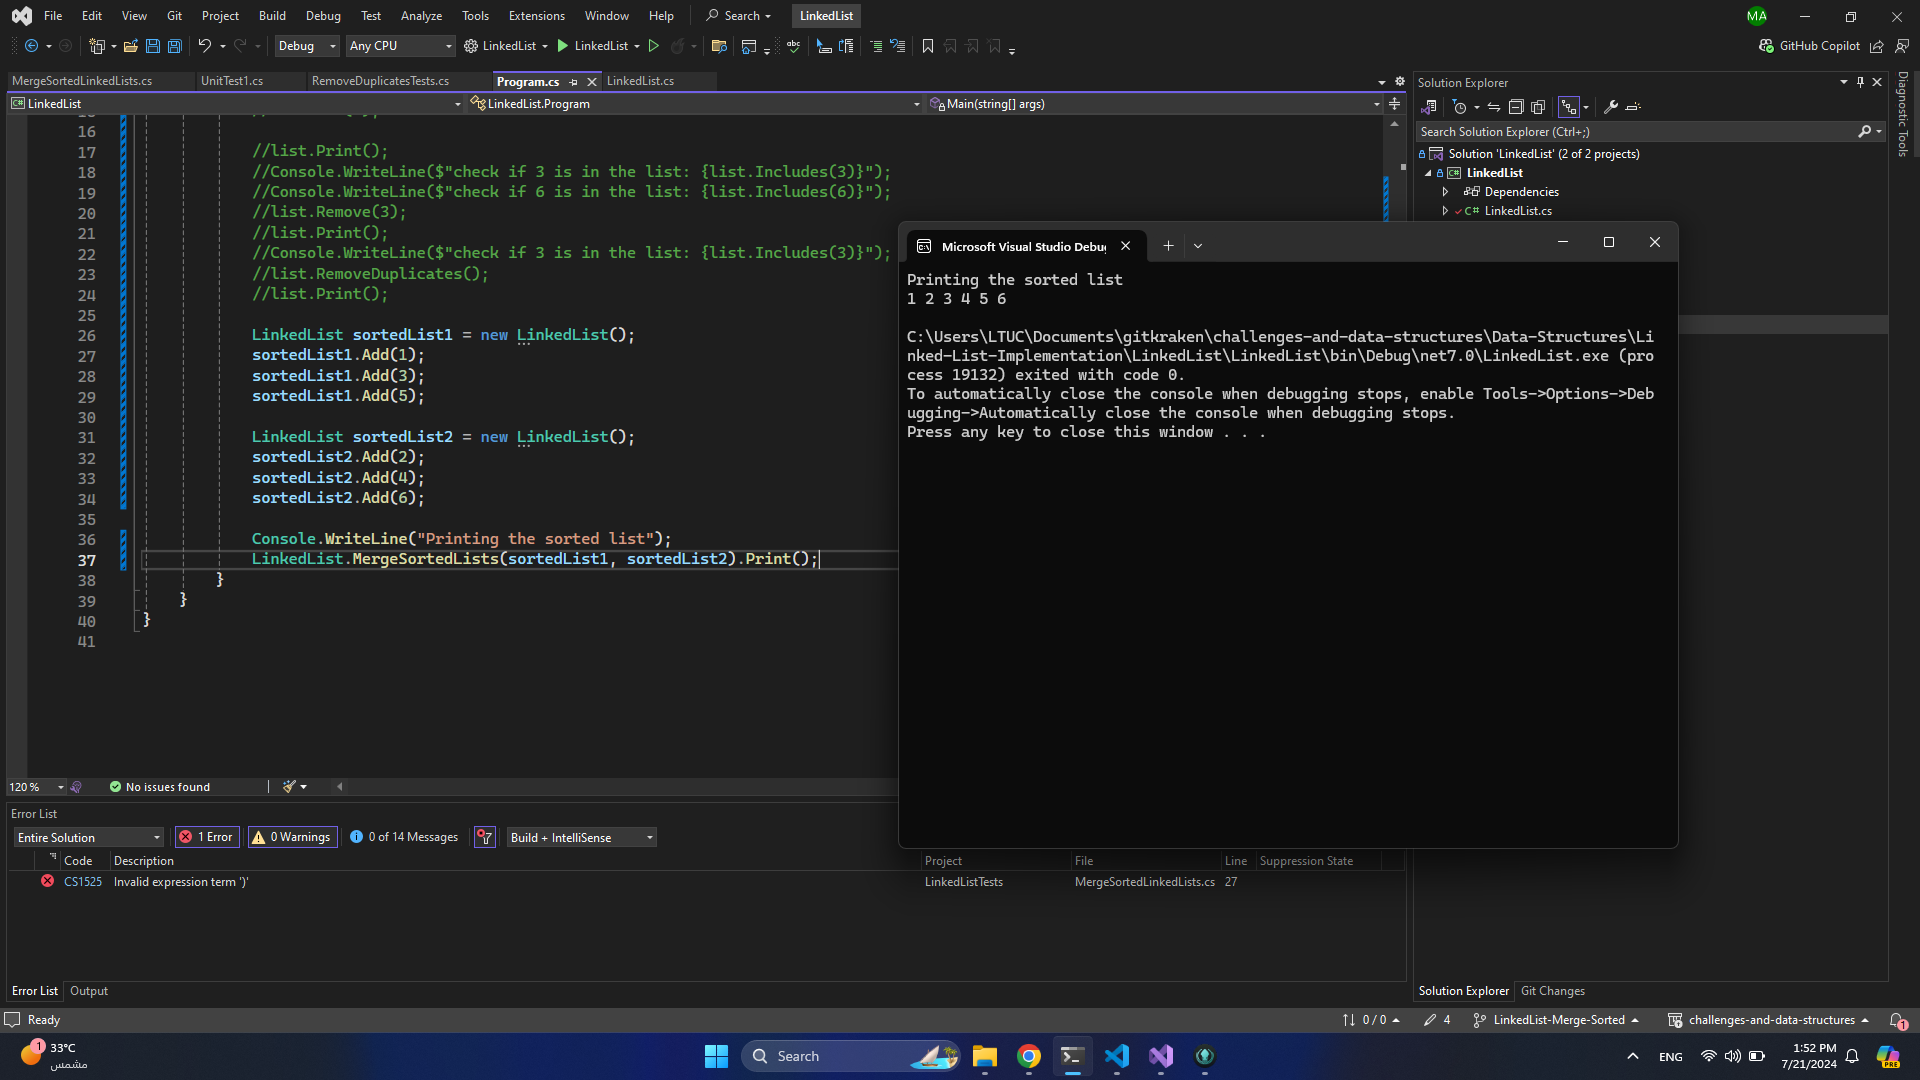
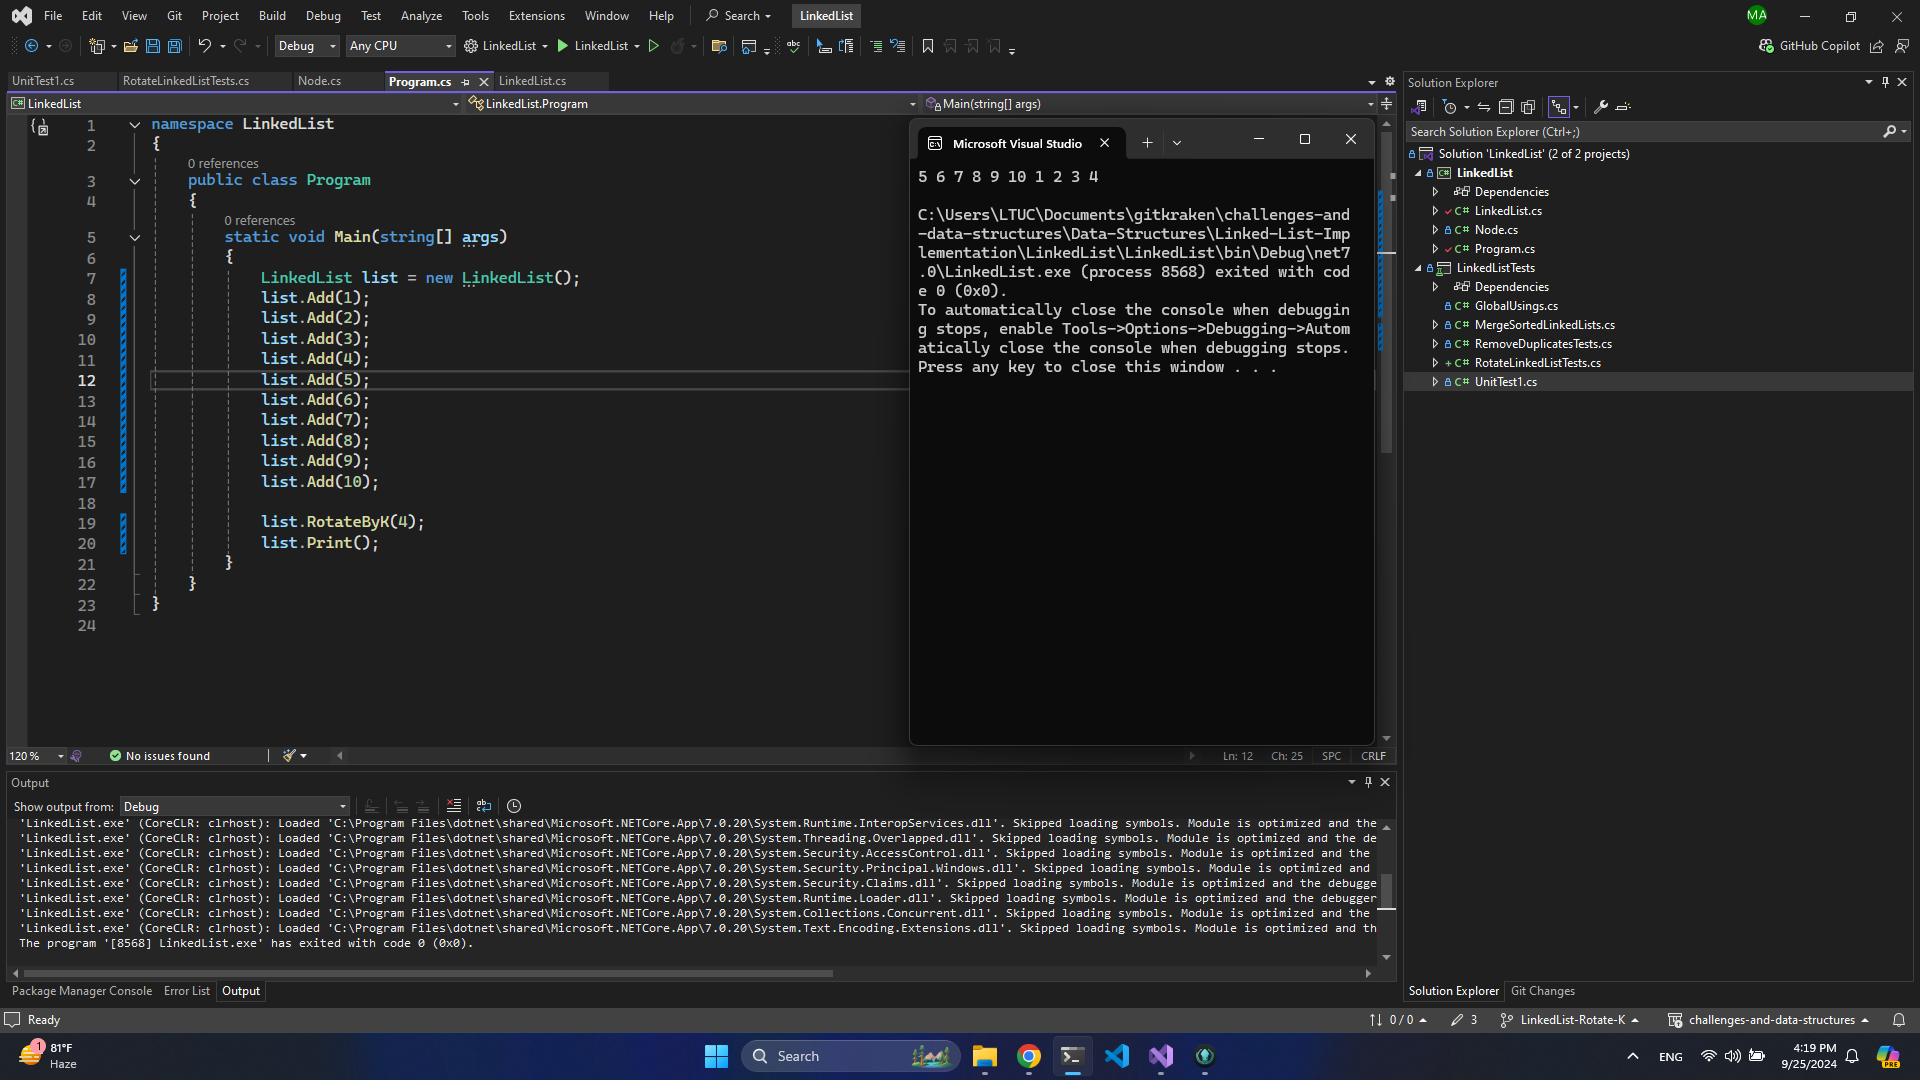
Linked List - Rotate by K

diff --git a/Data-Structures/Linked-List-Implementation/LinkedList/LinkedListTests/RotateLinkedListTests.cs b/Data-Structures/Linked-List-Implementation/LinkedList/LinkedListTests/RotateLinkedListTests.cs
@@ -1,0 +1,71 @@
+using System;
+using System.Collections.Generic;
+using System.Linq;
+using System.Text;
+using System.Threading.Tasks;
+using LinkedList;
+
+namespace LinkedListTests
+{
+    public class RotateLinkedListTests
+    {
+        [Fact]
+        public void RotateByKIfZero()
+        {
+            //Arrange
+            LinkedList.LinkedList list = new LinkedList.LinkedList();
+            list.Add(1);
+            list.Add(2);
+            list.Add(3);
+            list.Add(4);
+            list.Add(5);
+
+            using (var sw = new StringWriter())
+            {
+                Console.SetOut(sw);
+
+                //Act
+                list.RotateByK(0);
+                list.Print();
+
+                var standardOutput = new StreamWriter(Console.OpenStandardOutput());
+                standardOutput.AutoFlush = true;
+                Console.SetOut(standardOutput);
+
+                //Assert
+                var expected = "1 2 3 4 5 \r\n";
+                Assert.Equal(expected, sw.ToString());
+            }
+
+        }
+        [Fact]
+        public void RotateBykIfGreaterThanLength()
+        {
+            //Arrange
+            LinkedList.LinkedList list = new LinkedList.LinkedList();
+            list.Add(1);
+            list.Add(2);
+            list.Add(3);
+            list.Add(4);
+            list.Add(5);
+
+            using (var sw = new StringWriter())
+            {
+                Console.SetOut(sw);
+
+                //Act
+                list.RotateByK(6);
+                list.Print();
+
+                var standardOutput = new StreamWriter(Console.OpenStandardOutput());
+                standardOutput.AutoFlush = true;
+                Console.SetOut(standardOutput);
+
+                //Assert
+                var expected = "1 2 3 4 5 \r\n";
+                Assert.Equal(expected, sw.ToString());
+            }
+
+        }
+    }
+}

diff --git a/Data-Structures/Linked-List-Implementation/LinkedList/LinkedList/Program.cs b/Data-Structures/Linked-List-Implementation/LinkedList/LinkedList/Program.cs
@@ -4,37 +4,20 @@
     {
         static void Main(string[] args)
         {
-            //LinkedList list = new LinkedList();
-            //list.Add(1);
-            //list.Add(2);
-            //list.Add(4);
-            //list.Add(5);
-            //list.Add(3);
-            //list.Add(5);
-            //list.Add(4);
-            //list.Add(5);
+            LinkedList list = new LinkedList();
+            list.Add(1);
+            list.Add(2);
+            list.Add(3);
+            list.Add(4);
+            list.Add(5);
+            list.Add(6);
+            list.Add(7);
+            list.Add(8);
+            list.Add(9);
+            list.Add(10);
 
-            //list.Print();
-            //Console.WriteLine($"check if 3 is in the list: {list.Includes(3)}");
-            //Console.WriteLine($"check if 6 is in the list: {list.Includes(6)}");
-            //list.Remove(3);
-            //list.Print();
-            //Console.WriteLine($"check if 3 is in the list: {list.Includes(3)}");
-            //list.RemoveDuplicates();
-            //list.Print();
-
-            LinkedList sortedList1 = new LinkedList();
-            sortedList1.Add(1);
-            sortedList1.Add(3);
-            sortedList1.Add(5);
-
-            LinkedList sortedList2 = new LinkedList();
-            sortedList2.Add(2);
-            sortedList2.Add(4);
-            sortedList2.Add(6);
-
-            Console.WriteLine("Printing the sorted list");
-            LinkedList.MergeSortedLists(sortedList1, sortedList2).Print();
+            list.RotateByK(4);
+            list.Print();
         }
     }
 }

diff --git a/Data-Structures/Linked-List-Implementation/LinkedList/LinkedList/LinkedList.cs b/Data-Structures/Linked-List-Implementation/LinkedList/LinkedList/LinkedList.cs
@@ -137,5 +137,27 @@ namespace LinkedList
             }
             return mergedList;
         }
+        public void RotateByK(int k)
+        {
+            if (Head == null || k == 0) return;
+
+            Node? current = Head;
+            int count = 1;
+            while (count < k && current != null)
+            {
+                current = current.Next;
+                count++;
+            }
+            if (current == null) return;
+
+            Node? kthNode = current;
+            while (current.Next != null)
+            {
+                current = current.Next;
+            }
+            current.Next = Head;
+            Head = kthNode.Next;
+            kthNode.Next = null;
+        }
     }
 }

diff --git a/README.md b/README.md
@@ -77,3 +77,7 @@
 ### Binary Tree - Largest Value at Each Level
 
 ![Largest Value at Each Level](Data-Structures/Trees/Image6.jpg)
+
+### Linked List - Rotate by K
+
+![Rotate by K](Data-Structures/Linked-List-Implementation/Image6.jpg)
